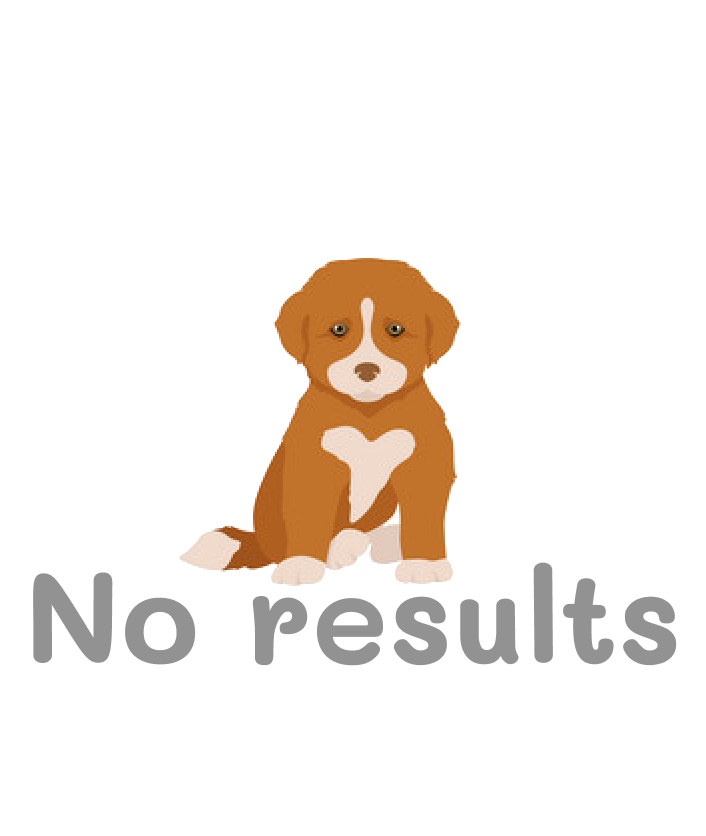
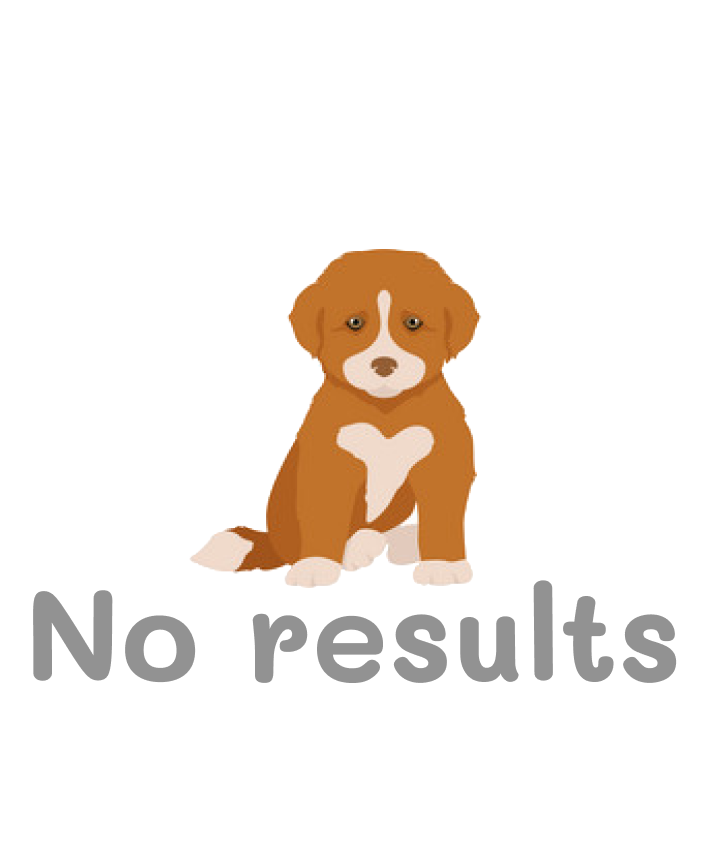
Added filtering for search food page

diff --git a/src/pages/SearchFood.page.js b/src/pages/SearchFood.page.js
@@ -3,12 +3,13 @@
 import { useContext, useEffect, useState } from "react";
 import { UserContext } from "../contexts/user.context";
 import PageContainer from "../components/PageContainer.component";
-import { searchForFood } from "../graphql/graphqlUtils";
+import { getAllCustomFoodTemplates, getAllFoodTemplatesForCategory, searchForFood } from "../graphql/graphqlUtils";
 import * as Enums from "../helpers/Enums.helper"
 import FoodCard from "../components/FoodCard.component"
 import * as styles from "../components/styles/SearchFood.css"
 import {ButtonWithImage} from '../components/Buttons.components'
 import { useNavigate, useLocation } from "react-router-dom";
+import {Image} from '../components/Image.components'
 
 const SearchFood = () => {
   const location = useLocation();
@@ -19,33 +20,48 @@ const SearchFood = () => {
   // State for search query
   const [searchQuery, setSearchQuery] = useState("");
   // State for selected category filter
-  const [selectedCategory, setSelectedCategory] = useState("");
+  const [selectedCategory, setSelectedCategory] = useState("meat");
    // State for searchResult 
   const [searchResult, setResults] = useState([]);
+   // State for radio buttons 
+  const [selectedFilter, setSelectedFilter] = useState("All");
 
   // Function to open the AddFoodPage when a food item is clicked
   const openAddFoodPage = (foodItem) => {
-    console.log("Opening AddFoodPage for:", foodItem);
-    console.log("Opening AddFoodPage mealId:", mealId);
     navigate("/addFood", { state: { mealId, foodItem } });
   };
 
   const openCeateNewFoodPage = () => {
-    console.log("openCeateNewFoodPage mealId:", mealId);
     navigate("/createNewFood", { state: { mealId } });
   };
 
   useEffect(() => {
-    // Do not query an empty string
-    if (searchQuery.length > 0) {
-      searchFood(); // Load food data when the component mounts
+    // Do not query an empty string if selected filter is "All"
+    if (searchQuery.length > 0 || selectedFilter !== "All") {
+      searchFood(); 
+    } else {
+      setResults([]);
     }
-  }, [searchQuery]);
+  }, [searchQuery, selectedFilter, selectedCategory]);
 
-  // Func that is responsible for searching Food Templates in DB 
+  // Func that is responsible for searching Food Templates in DB based on search string
   async function searchFood() {
-    const results = await searchForFood(searchQuery, user);
-    setResults(results);
+    console.log("searchFood for:", selectedFilter);
+    if (selectedFilter === "All") {
+      const results = await searchForFood(searchQuery, user);
+      setResults(results);
+    } else if  (selectedFilter === "Filter by category") {
+      const results = await getAllFoodTemplatesForCategory(user, selectedCategory)
+      console.log("Filter by category results:", results);
+      setResults(results);
+    } else if  (selectedFilter === "My food") {
+      const results = await getAllCustomFoodTemplates(user)
+      console.log("My food results:", results);
+      setResults(results);
+    } else if  (selectedFilter === "My Recipe"){
+
+    }
+    console.log("searchFood results:", searchResult);
   }
  
     const FilterContainer = ({ selectedCategory, setSelectedCategory }) => {
@@ -56,55 +72,70 @@ const SearchFood = () => {
         "My Recipe",
       ];
     
-      const [selectedOption, setSelectedOption] = useState("All");
-    
-      const handleOptionChange = (option) => {
-        setSelectedOption(option);
-    
-        if (option === "Filter by category") {
-          setSelectedCategory("dropdown"); // Set to "dropdown" when "Filter by category" is selected
-        } else {
-          setSelectedCategory(option);
-        }
-      };
+      async function handleCategoryChange(e) {
+        const newValue = e.target.value;
+        console.log("handleCategoryChange:", newValue);
+        setSelectedCategory(newValue)
+      }
+
+      async function handleFilterChange(filter) {
+        console.log("handleFilterChange:", filter);
+        setSelectedFilter(filter)
+      }
     
       return (
         <div style={styles.rowStyle}>
-          {filterOptions.map((option) => (
-              <label
-                key={option}
-                style={styles.labelFilterStyle}
-              >
+          {filterOptions.map((filter) => (
+            <label key={filter} style={styles.labelFilterStyle}>
               <input
                 style={styles.radioButtonStyle}
                 type="radio"
                 name="categoryOption"
-                value={option}
-                checked={selectedOption === option}
-                onChange={() => handleOptionChange(option)}
+                value={selectedFilter}  
+                checked={selectedFilter === filter}
+                onChange={() => handleFilterChange(filter)}
               />
-                {option === "Filter by category" ? (
-                    <label >
-                    <span>Filter by category</span>
-                    <select style={styles.dropdownStyle}>
-                      {Object.values(Enums.FoodCategoryType).map((type, index) => (
-                        <option key={index} value={Enums.getTitleUpercased(type)}>
-                          {Enums.getTitleUpercased(type)}
-                        </option>
-                      ))}
-                    </select>
-                    </label>
-                ) : (
-                  option
-                )}
-              </label>
+              <span>{filter === "Filter by category" ? (
+                <>
+                  Filter by category
+                  <select
+                    style={styles.dropdownStyle}
+                    value={selectedCategory}
+                    onChange={(e) => {
+                      setSelectedFilter("Filter by category");
+                      handleCategoryChange(e)
+                    }}
+                  >
+                    {Object.values(Enums.FoodCategoryType).map((type, index) => (
+                      <option key={index} value={Enums.getTitleUpercased(type)}>
+                        {Enums.getTitleUpercased(type)}
+                      </option>
+                    ))}
+                  </select>
+                </>
+              ) : (
+                filter
+              )}</span>
+            </label>
           ))}
         </div>
       );
+      
     };
     
     
   const ResultContainer = ({ searchResult, openAddFoodPage }) => {
+      // Check if searchResult is not defined or is an empty array
+    if (!searchResult || searchResult.length === 0) {
+      return <div style={styles.rowStyle}>
+        {selectedFilter === "All" &&  searchQuery.length === 0 ? (
+          <Image imageName="start_typing_placeholder.png" width="200" height="250"/>
+          ) : (
+            <Image imageName="no_results_placeholder.png" width="200" height="250"/>
+        )}
+        </div>;
+    }
+
     return (
       <div>
         {searchResult.map((foodItem, index) => (

diff --git a/src/graphql/graphqlUtils.js b/src/graphql/graphqlUtils.js
@@ -11,6 +11,7 @@ async function searchForFood(searchQuery, user) {
 
     const searchFoodTemplateQuery = gql`
     query SearchFoodTemplate($searchQuery: String!) {
+      
         search(input: $searchQuery) {
           _id
           ash
@@ -95,6 +96,102 @@ async function getAllFoodForMeal(user, mealId) {
     } catch (error) {
         alert('Error fetching food for meal with Id:', mealId, error);
     }
+}
+
+// Func that is responsible for fetching  all food for specific meal
+// it returna array of Food
+async function getAllCustomFoodTemplates(user) {
+  const accessToken = user._accessToken;
+  const headers = { Authorization: `Bearer ${accessToken}` };
+
+  // GraphQL query to fetch all  food for specificmeal
+  const getAllCustomFoodTemplates = gql`
+      query getAllCustomFoodTemplates {
+        foodTemplates(query: { isCustom: true}) {
+            _id
+            ash
+            bonesRatio
+            calories
+            caloriesServing
+            carb
+            categoryType
+            desc
+            fat
+            fiber
+            image
+            isCustom
+            meatRatio
+            name
+            protein
+            servingWeight
+            servings
+            type
+            units
+            userId
+            weight
+          }
+      }
+  `;
+  const queryVariables = {};
+
+  try {
+      
+      const resp = await request(GRAPHQL_ENDPOINT, getAllCustomFoodTemplates, queryVariables, headers);
+      
+      // Update the 'food' state with the fetched data
+      return resp.foodTemplates;
+  } catch (error) {
+      alert(error);
+  }
+}
+
+// Func that is responsible for fetching  all food for specific meal
+// it returna array of Food
+async function getAllFoodTemplatesForCategory(user, categoryType) {
+  const accessToken = user._accessToken;
+  const headers = { Authorization: `Bearer ${accessToken}` };
+
+  // GraphQL query to fetch all  food for specificmeal
+  const getAllFoodTemplatesForCategory = gql`
+      query getAllFoodTemplatesForCategory($categoryType: String!) {
+          foodTemplates(query: { categoryType: $categoryType}) {
+            _id
+            ash
+            bonesRatio
+            calories
+            caloriesServing
+            carb
+            categoryType
+            desc
+            fat
+            fiber
+            image
+            isCustom
+            meatRatio
+            name
+            protein
+            servingWeight
+            servings
+            type
+            units
+            userId
+            weight
+          }
+      }
+  `;
+  const queryVariables = {
+      "categoryType": categoryType.toLowerCase(),
+  };
+
+  try {
+      
+      const resp = await request(GRAPHQL_ENDPOINT, getAllFoodTemplatesForCategory, queryVariables, headers);
+      
+      // Update the 'food' state with the fetched data
+      return resp.foodTemplates;
+  } catch (error) {
+      alert(error);
+  }
 }
 
 // Func that is responsible for deleting a meal based on the expense-id
@@ -683,6 +780,8 @@ async function updateTraining(user, trainingId, updateData) {
 export { 
     searchForFood, 
     getAllFoodForMeal, 
+    getAllCustomFoodTemplates,
+    getAllFoodTemplatesForCategory,
     deleteMeal,
     deleteActivity,
     deleteTraining,
